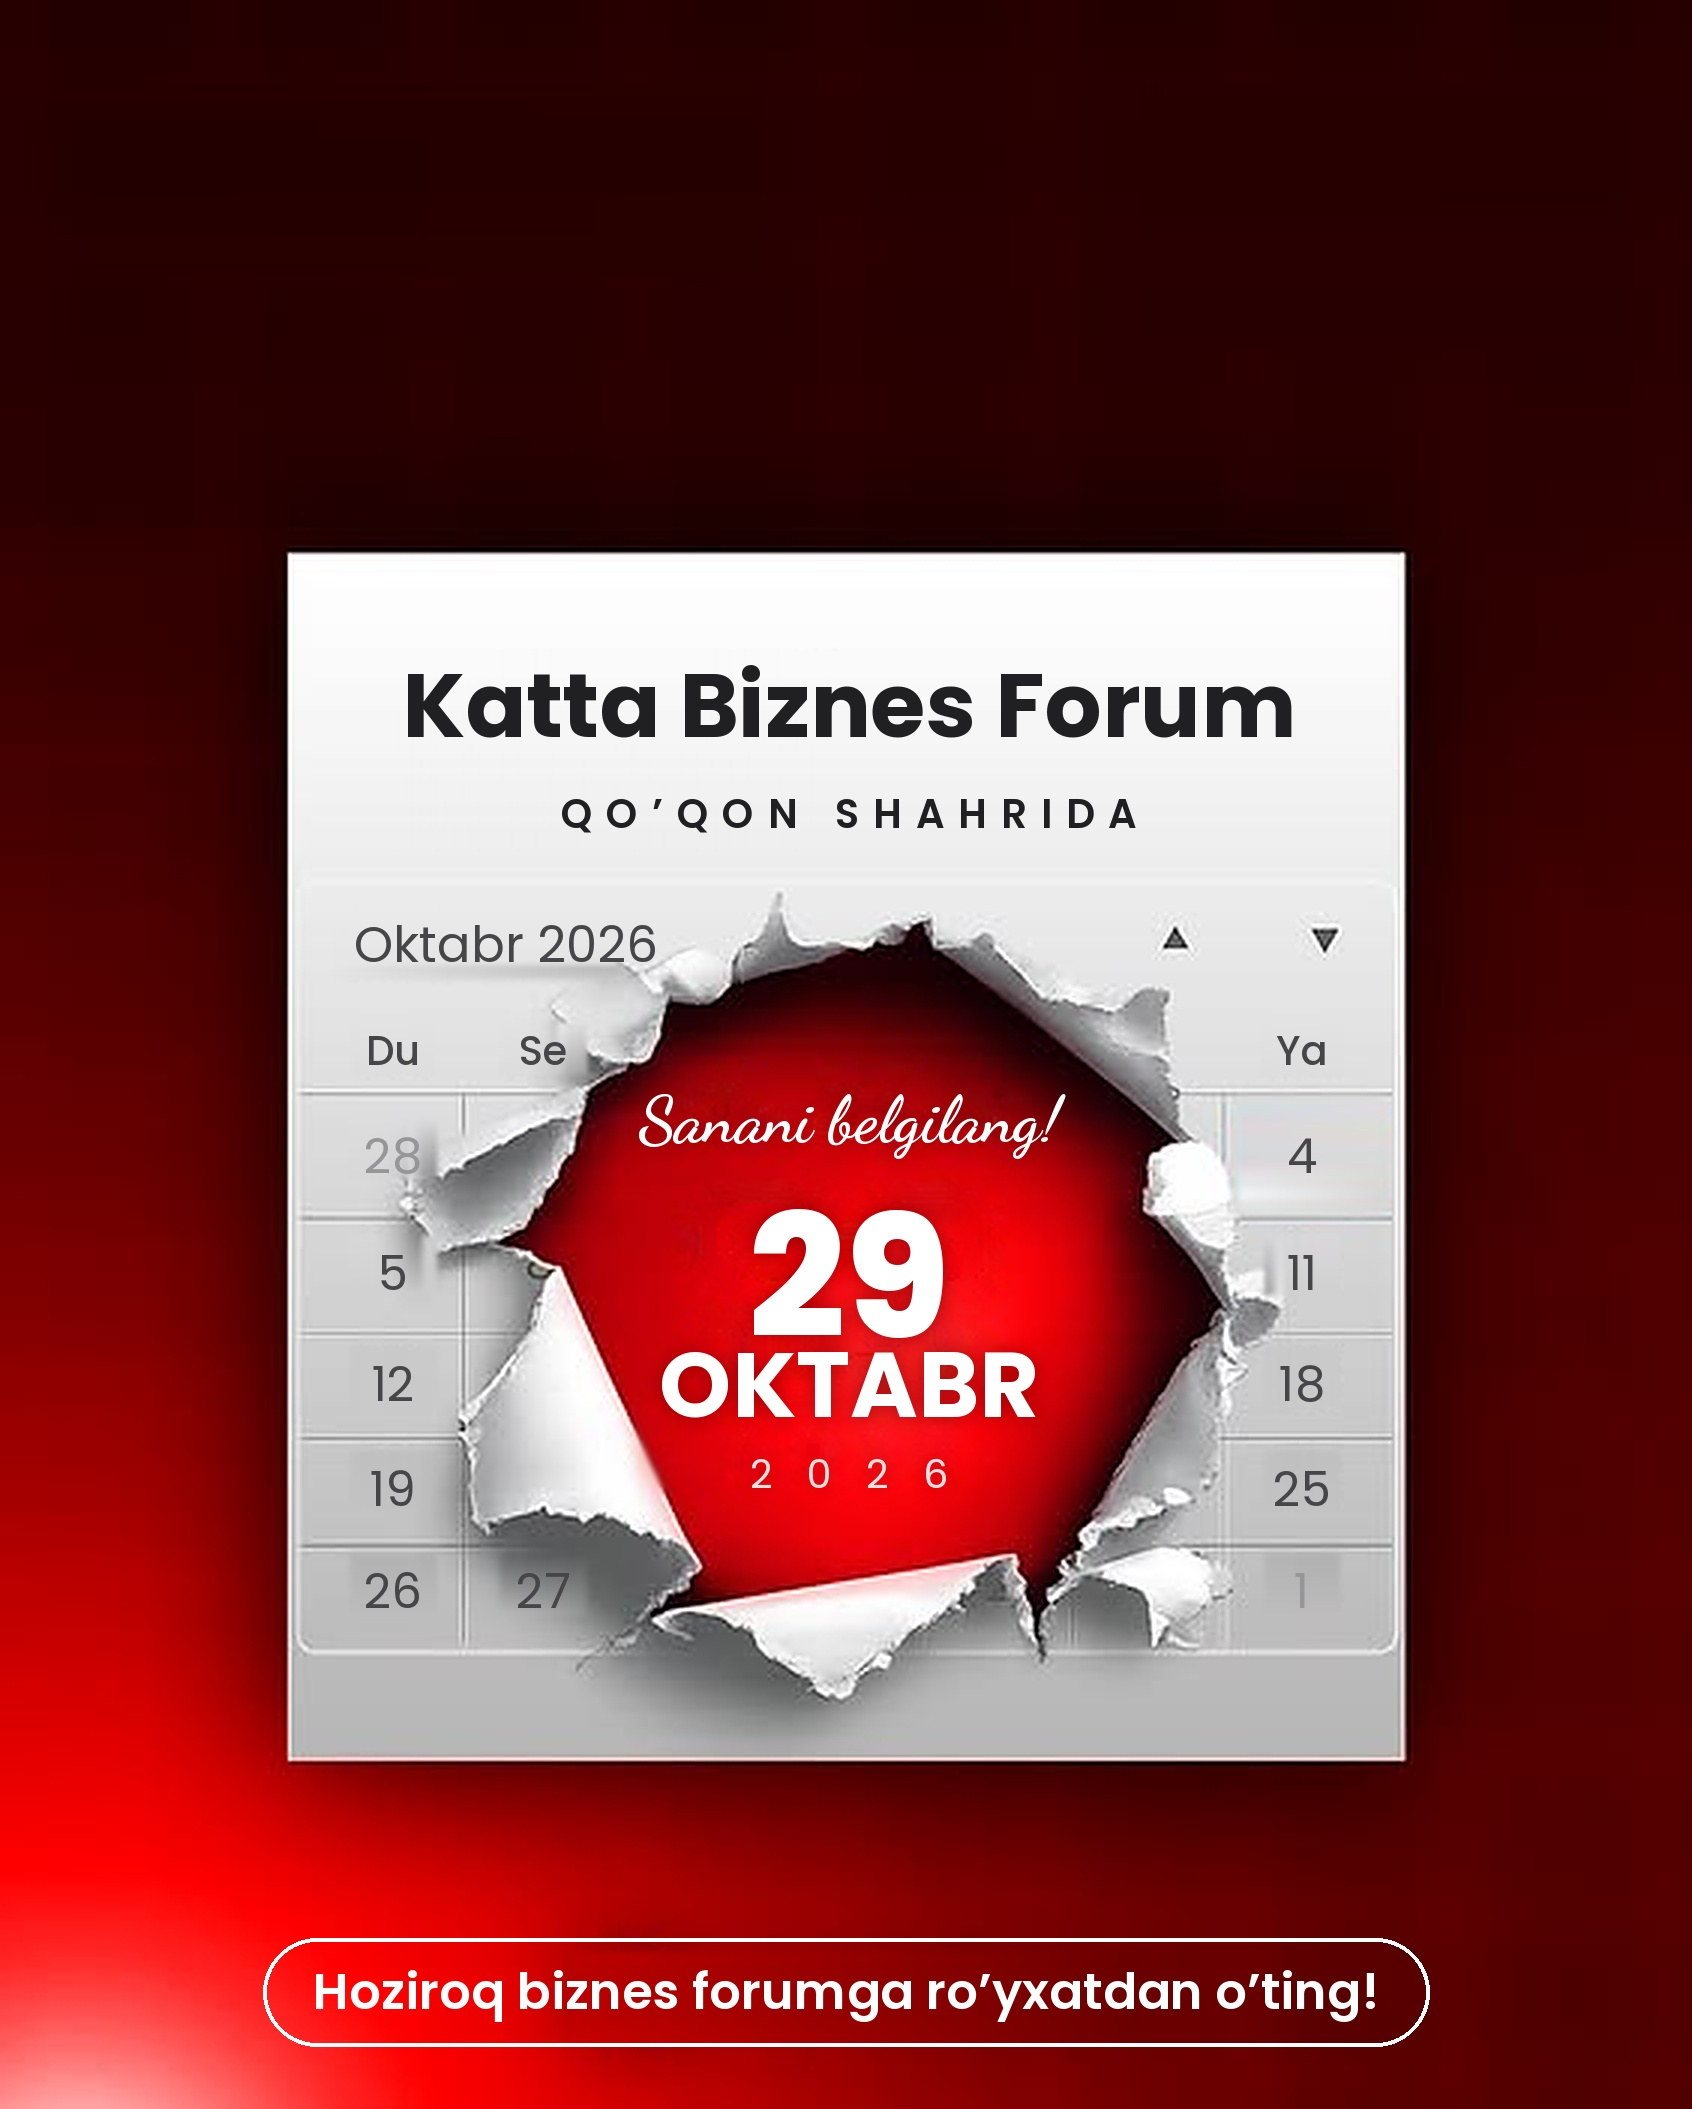
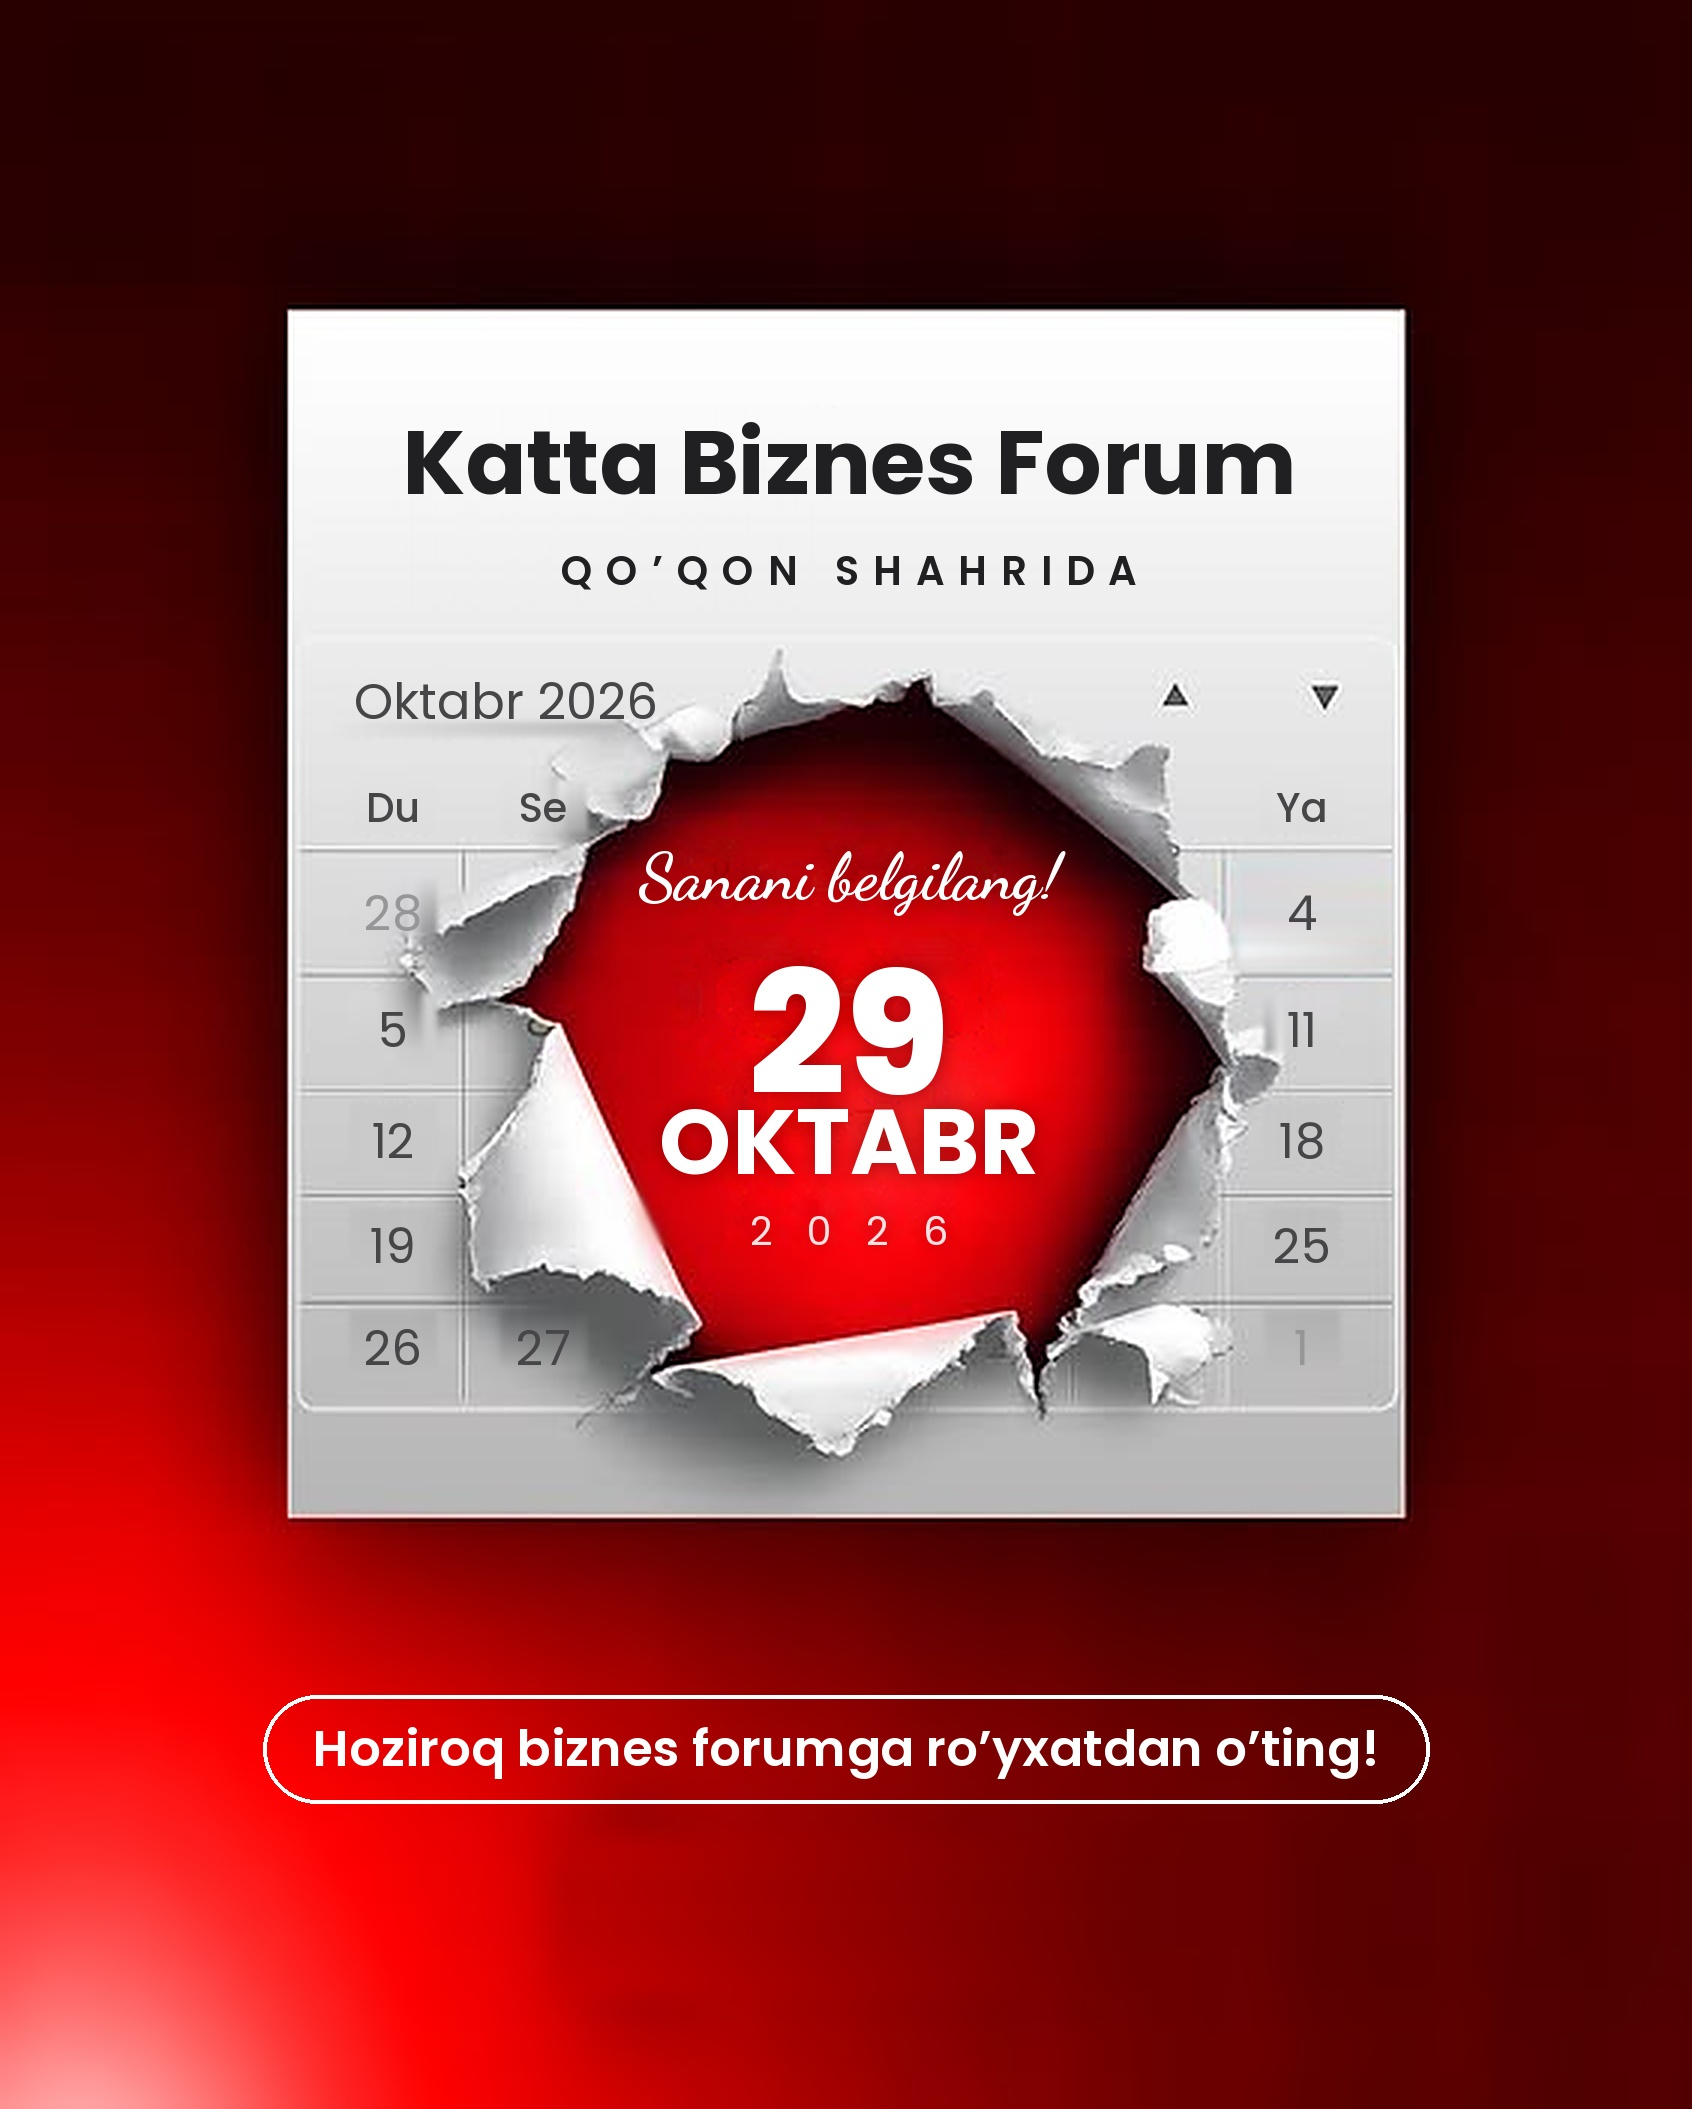
Forum afishasi: kompozitsiya vertikal markazga joylandi
Claude-Session: https://claude.ai/code/session_01MnVYm2tC76KAA1Eter6suD

diff --git a/dizayn/save_date_yasash.py b/dizayn/save_date_yasash.py
@@ -80,10 +80,19 @@ ctext(CC,440*S,"OKTABR",F(700,92),(255,255,255,255),dr=g)
 ctext(CC,482*S,"2026",F(400,40),(255,225,225,255),sp=34,dr=g)
 sh=Image.new("RGBA",(W,H),(90,0,0,0)); sh.putalpha(glow.getchannel("A").filter(ImageFilter.GaussianBlur(10)).point(lambda v:v*0.6))
 im.alpha_composite(sh); im.alpha_composite(glow)
+# --- hammasini vertikal markazga surish: kartani tepaga ko'tarib, pastki fonni cho'zish ---
+CARD_TOP,CARD_BOT,PILL_H,GAP=183*S,588*S,36*S,58*S
+block=(CARD_BOT-CARD_TOP)+GAP+PILL_H
+new_top=(H-block)//2; D=CARD_TOP-new_top
+arr=np.asarray(im)
+cut=CARD_BOT+6*S
+top_part=Image.fromarray(arr[D:cut]); bot=Image.fromarray(arr[cut:]).resize((W,H-(cut-D)),Image.BICUBIC).filter(ImageFilter.GaussianBlur(10))
+im=Image.new("RGBA",(W,H)); im.paste(top_part,(0,0)); im.paste(bot,(0,cut-D))
 # pastdagi chaqiriq
 d=ImageDraw.Draw(im)
 t="Hoziroq biznes forumga ro’yxatdan o’ting!"; f=F(600,50)
-w=d.textlength(t,font=f); bx0,bx1=W/2-w/2-50,W/2+w/2+50; by0,by1=646*S,(646+36)*S
+w=d.textlength(t,font=f); bx0,bx1=W/2-w/2-50,W/2+w/2+50; by0=CARD_BOT-D+GAP; by1=by0+PILL_H
 d.rounded_rectangle((bx0,by0,bx1,by1),radius=(by1-by0)//2,outline=(255,255,255),width=4)
-ctext(W/2,by0+(by1-by0)/2-36,t,f,(255,255,255))
+ctext(W/2,by0+(by1-by0)/2-36,t,f,(255,255,255),dr=d)
+print("tepa",new_top,"past",H-by1)
 im.convert("RGB").save("/home/user/mening-saytim/dizayn/forum-save-date.jpg",quality=95)
